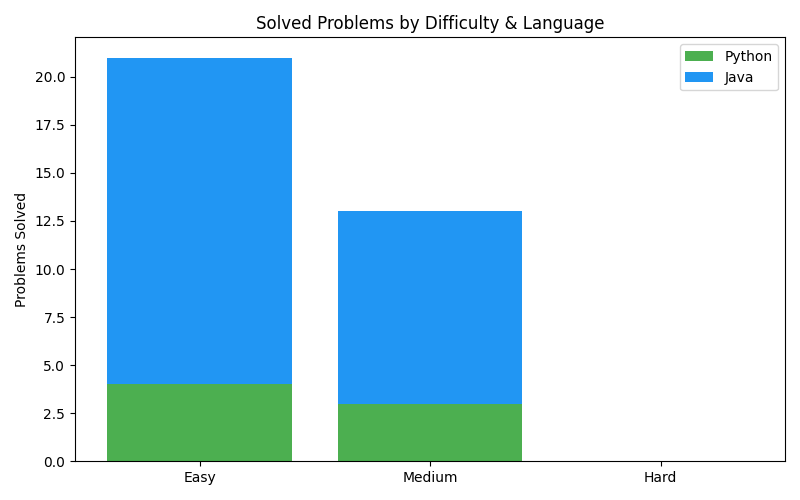
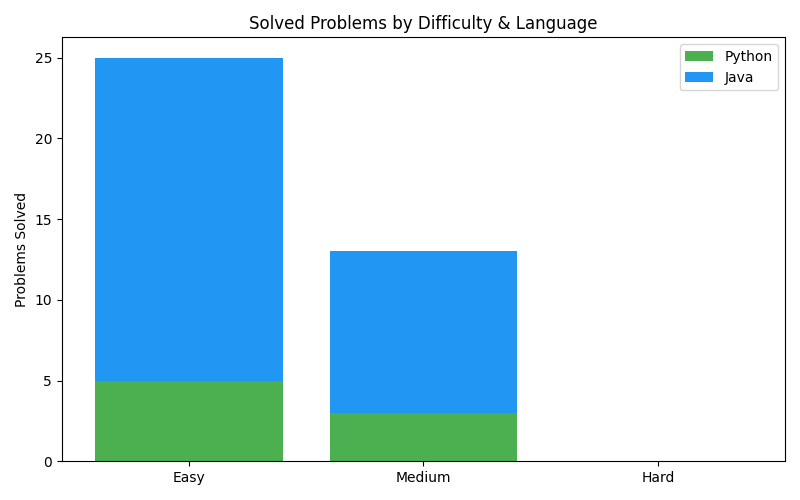
multiple-problems

diff --git a/easy/121-best-time-to-buy-and-sell-stock/solution/Solution.java b/easy/121-best-time-to-buy-and-sell-stock/solution/Solution.java
@@ -1,0 +1,23 @@
+class Solution {
+    public int maxProfit(int[] prices) {
+        // Naive solution
+        // int max = 0;
+        // for(int i = 0; i < prices.length; i++){
+        //     for(int j = i; j < prices.length; j++){
+        //         if(prices[j] - prices[i] > max) max = prices[j] - prices[i];
+        //     }
+        // }
+        // return max;
+
+        int min = Integer.MAX_VALUE;
+        int overall = 0;
+        int profitToday = 0;
+
+        for(int i = 0; i < prices.length; i++){
+            if(prices[i] < min) min = prices[i];
+            profitToday = prices[i] - min;
+            if(overall < profitToday) overall = profitToday;
+        }
+        return overall;
+    }
+}

diff --git a/easy/387-first-unique-character-in-a-string/solution/Solution.java b/easy/387-first-unique-character-in-a-string/solution/Solution.java
@@ -1,0 +1,14 @@
+import java.util.*;
+class Solution {
+    public int firstUniqChar(String s) {
+        HashMap<Character, Integer> map = new HashMap<>();
+        for(int i = 0; i < s.length(); i++){
+            map.put(s.charAt(i), map.getOrDefault(s.charAt(i), 0)+1);
+        }
+
+        for(int i = 0; i < s.length(); i++){
+            if(map.get(s.charAt(i)) == 1) return i;
+        }
+        return -1;
+    }
+}

diff --git a/easy/28-find-the-index-of-the-first-occurrence-in-a-string/solution/Solution.java b/easy/28-find-the-index-of-the-first-occurrence-in-a-string/solution/Solution.java
@@ -1,0 +1,8 @@
+class Solution {
+    public int strStr(String haystack, String needle) {
+        for(int i = 0, j = needle.length(); j <= haystack.length(); j++,i++){
+            if(haystack.substring(i,j).equals(needle)) return i;
+        }
+        return -1;
+    }
+}

diff --git a/easy/387-first-unique-character-in-a-string/solution/solution.py b/easy/387-first-unique-character-in-a-string/solution/solution.py
@@ -1,0 +1,3 @@
+class Solution:
+    def method_name(self, *args):
+        pass

diff --git a/easy/121-best-time-to-buy-and-sell-stock/README.md b/easy/121-best-time-to-buy-and-sell-stock/README.md
@@ -1,0 +1,85 @@
+# 121. Best Time to Buy and Sell Stock
+
+**Difficulty:** Easy  
+**Link:** [https://leetcode.com/problems/best-time-to-buy-and-sell-stock/](https://leetcode.com/problems/best-time-to-buy-and-sell-stock/)
+
+## Problem Description
+
+You are given an array 
+prices
+ where 
+prices[i]
+ is the price of a given stock on the 
+i
+th
+ day.
+
+
+You want to maximize your profit by choosing a 
+single day
+ to buy one stock and choosing a 
+different day in the future
+ to sell that stock.
+
+
+Return 
+the maximum profit you can achieve from this transaction
+. If you cannot achieve any profit, return 
+0
+.
+
+
+ 
+
+
+Example 1:
+
+
+
+
+Input:
+ prices = [7,1,5,3,6,4]
+
+Output:
+ 5
+
+Explanation:
+ Buy on day 2 (price = 1) and sell on day 5 (price = 6), profit = 6-1 = 5.
+Note that buying on day 2 and selling on day 1 is not allowed because you must buy before you sell.
+
+
+
+Example 2:
+
+
+
+
+Input:
+ prices = [7,6,4,3,1]
+
+Output:
+ 0
+
+Explanation:
+ In this case, no transactions are done and the max profit = 0.
+
+
+
+ 
+
+
+Constraints:
+
+
+
+
+1 <= prices.length <= 10
+5
+
+
+0 <= prices[i] <= 10
+4
+
+
+
+

diff --git a/easy/28-find-the-index-of-the-first-occurrence-in-a-string/README.md b/easy/28-find-the-index-of-the-first-occurrence-in-a-string/README.md
@@ -1,0 +1,80 @@
+# 28. Find the Index of the First Occurrence in a String
+
+**Difficulty:** Easy  
+**Link:** [https://leetcode.com/problems/find-the-index-of-the-first-occurrence-in-a-string/](https://leetcode.com/problems/find-the-index-of-the-first-occurrence-in-a-string/)
+
+## Problem Description
+
+Given two strings 
+needle
+ and 
+haystack
+, return the index of the first occurrence of 
+needle
+ in 
+haystack
+, or 
+-1
+ if 
+needle
+ is not part of 
+haystack
+.
+
+
+ 
+
+
+Example 1:
+
+
+
+
+Input:
+ haystack = "sadbutsad", needle = "sad"
+
+Output:
+ 0
+
+Explanation:
+ "sad" occurs at index 0 and 6.
+The first occurrence is at index 0, so we return 0.
+
+
+
+Example 2:
+
+
+
+
+Input:
+ haystack = "leetcode", needle = "leeto"
+
+Output:
+ -1
+
+Explanation:
+ "leeto" did not occur in "leetcode", so we return -1.
+
+
+
+ 
+
+
+Constraints:
+
+
+
+
+1 <= haystack.length, needle.length <= 10
+4
+
+
+haystack
+ and 
+needle
+ consist of only lowercase English characters.
+
+
+
+

diff --git a/easy/387-first-unique-character-in-a-string/README.md b/easy/387-first-unique-character-in-a-string/README.md
@@ -1,0 +1,98 @@
+# 387. First Unique Character in a String
+
+**Difficulty:** Easy  
+**Link:** [https://leetcode.com/problems/first-unique-character-in-a-string/](https://leetcode.com/problems/first-unique-character-in-a-string/)
+
+## Problem Description
+
+Given a string 
+s
+, find the 
+first
+ non-repeating character in it and return its index. If it 
+does not
+ exist, return 
+-1
+.
+
+
+ 
+
+
+Example 1:
+
+
+
+
+Input:
+ 
+s = "leetcode"
+
+
+Output:
+ 
+0
+
+
+Explanation:
+
+
+The character 
+'l'
+ at index 0 is the first character that does not occur at any other index.
+
+
+
+
+Example 2:
+
+
+
+
+Input:
+ 
+s = "loveleetcode"
+
+
+Output:
+ 
+2
+
+
+
+
+Example 3:
+
+
+
+
+Input:
+ 
+s = "aabb"
+
+
+Output:
+ 
+-1
+
+
+
+
+ 
+
+
+Constraints:
+
+
+
+
+1 <= s.length <= 10
+5
+
+
+s
+ consists of only lowercase English letters.
+
+
+
+

diff --git a/README.md b/README.md
@@ -23,6 +23,8 @@ My solutions to LeetCode problems in Python and Java
 
 
 
+
+
 ## 📊 Problem Distribution
 ![By Difficulty and Language](assets/progress_difficulty_language.png)
 ![By Difficulty (Pie)](assets/pie_difficulty.png)
